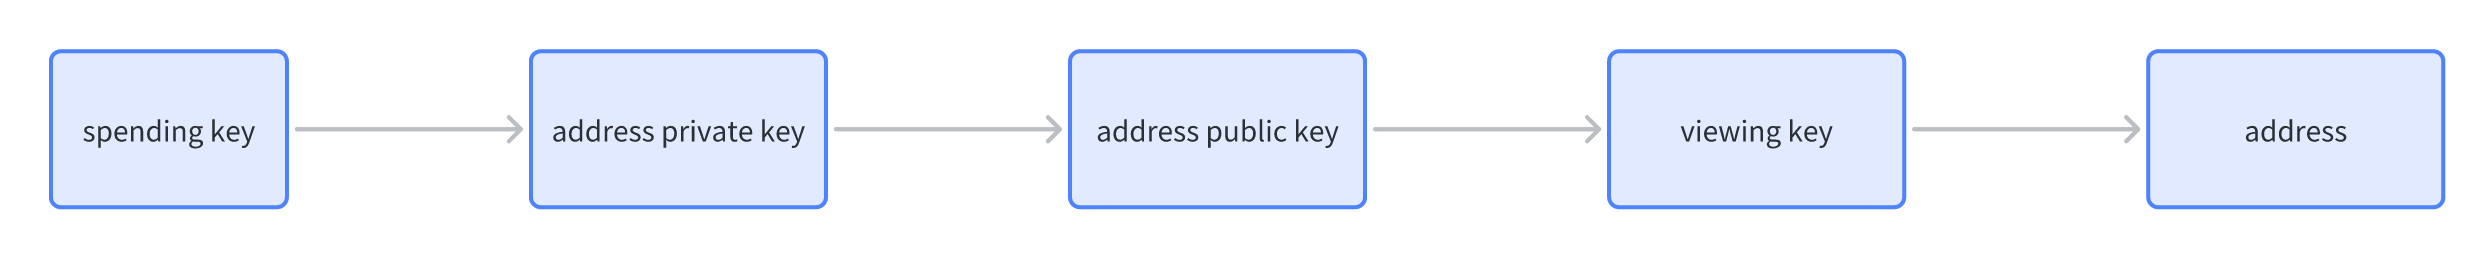
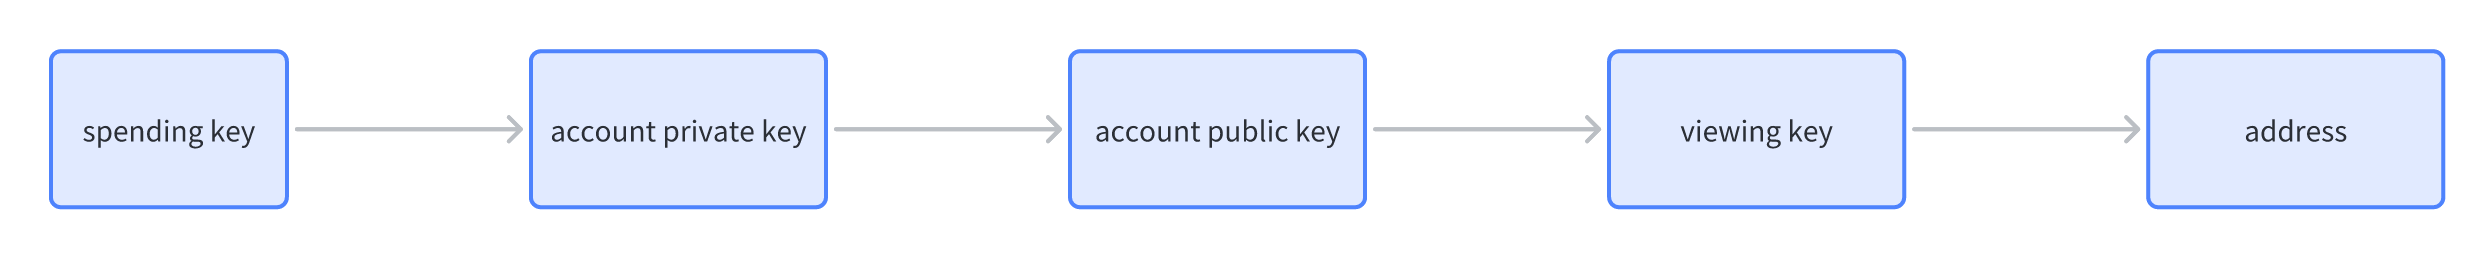
fix review pbs

Changed region(s): [[0.4326, 0.4688, 0.5562, 0.5625], [0.2163, 0.4688, 0.3399, 0.5625]]

diff --git a/zk-zkvm/keys-and-address/account-private-key.tex b/zk-zkvm/keys-and-address/account-private-key.tex
@@ -1,21 +1,21 @@
-\subsubsection{Account Private Keys}\label{section: account-private-keys}
+\subsubsection{Account Private Key}\label{section: account-private-key}
 
-Account private keys are derived from the associated spending keys. Account private keys are private keys just like the spending keys and can not be leaked to others. A Account private key can be used to sign transactions and generate note commitments. It mainly consists of three parts:
+The account private key is derived from the associated spending key, and is also a private key like the spending key and can not be leaked to others. A account private key can be used to sign transactions and generate note commitments. It mainly consists of three parts:
 
 \begin{itemize}
     \item Random commitment key
         \begin{itemize}
-            \item a random number used in commitment scheme
+            \item A random number used in commitment scheme.
         \end{itemize}
     \item Signature secret key
         \begin{itemize}
-            \item A key used in signature scheme
+            \item A key used in signature scheme.
         \end{itemize}
     \item Random seed
         \begin{itemize}
             \item A random number seed
-            \item Signature secret key and rcm are all derived from a rseed
+            \item The signature secret key and the random commitment key are all derived from the random seed.
         \end{itemize}
 \end{itemize}
 
-The random commitment key is a scalar used in commitment schemes. The signature secret key is also a scalar used for private keys in signature schemes. The random seed is a random number generated by a random number generator, which is an element in a finite field and is 32 bytes in size.
+The random commitment key is a scalar used in commitment schemes. The signature secret key is also a scalar used for the private key in signature schemes. The random seed is a random number generated by a random number generator, which is an element in a finite field and is 32 bytes in size.

diff --git a/zk-zkvm/keys-and-address/account-public-key.tex b/zk-zkvm/keys-and-address/account-public-key.tex
@@ -1,6 +1,6 @@
-\subsubsection{Account Public Keys}\label{section: account-public-keys}
+\subsubsection{Account Public Key}\label{section: account-public-key}
 
-Account public keys are derived from the associated account private keys, which mainly includes:
+The account public key is derived from the associated account private key, which mainly consists of:
 
 \begin{itemize}
     \item Signature public key
@@ -8,11 +8,11 @@ Account public keys are derived from the associated account private keys, which 
     \item PRF secret key
 \end{itemize}
 
-The signature public key is a public key derived from the generator G of the group on an elliptic curve and a signature secret key, which is essentially a group element on the elliptic curve, and is used to verify the signature in a signature scheme
+The signature public key is a public key derived from a signature secret key and a group generator on an elliptic curve. It is essentially also a group element on the elliptic curve, and is used to verify the signature in a signature scheme.
 \[ \mathrm{Sig\_Pub\_Key} = G^{\mathrm{Sig\_Pri\_Key}} \]
 
-The signature public random key is a random number derived from random commitment key for a signature scheme, and is essentially an element of the group defined on the elliptic curve
+The signature public random key is a random number derived from random commitment key for a signature scheme, and is essentially an element of the group defined on the elliptic curve.
 \[ \mathrm{Sig\_Pub\_Rand} = G^{\mathrm{rcm}} \]
 
-The PRF secret key is a key used in the Pseudo Random Function to generate pseudo-random numbers
+The PRF secret key is a key used in the Pseudo Random Function to generate pseudo-random numbers.
 \[ \mathrm{PRF}_{sk}(x) = \mathrm{Hash}(sk \mathbin{||} x) \]

diff --git a/zk-zkvm/keys-and-address/address.tex b/zk-zkvm/keys-and-address/address.tex
@@ -1,8 +1,8 @@
-\subsubsection{Addresses}\label{section: addresses}
+\subsubsection{Address}\label{section: address}
 
-Addresses are generated by associated account public keys or viewing keys to receive transfers. Addresses in Ola are either transparent or shielded (private). Transparent addresses are publicly visible on the blockchain, in the same way that Bitcoin addresses are viewable. Shielded addresses are invisible and transactions between shielded addresses do not reveal either address, the transaction value or the content of the encrypted field.
+An address is generated by the associated account public key or viewing key to receive transfers. Addresses in Ola are either transparent or shielded (private). Transparent addresses are publicly visible on the blockchain, in the same way that Bitcoin addresses are viewable. Shielded addresses are invisible and transactions between shielded addresses do not reveal either address, the transaction value or the content of the encrypted field.
 
-Zcash has defined a mechanism for generating hierarchical deterministic wallets in \href{https://zips.z.cash/zip-0032}{ZIP 32}, just like \href{https://github.com/bitcoin/bips/blob/master/bip-0032.mediawiki}{BIP 32}. It can help users who want to generate multiple addresses per account. All derivations produce an opaque binary spending key, from which the keys and addresses are then derived.
+Zcash has defined a mechanism for generating hierarchical deterministic wallets in ZIP 32 \cite{website:ZIP-32}, just like BIP 32 \cite{website:BIP-32}. It can help users who want to generate multiple addresses per account. All derivations produce an opaque binary spending key, from which the keys and addresses are then derived.
 
 \begin{itemize}
     \item ZIP 32

diff --git a/zk-zkvm/keys-and-address/viewing-key.tex b/zk-zkvm/keys-and-address/viewing-key.tex
@@ -1,6 +1,6 @@
-\subsubsection{Viewing Keys}\label{section: viewing-keys}
+\subsubsection{Viewing Key}\label{section: viewing-key}
 
-Viewing keys are derived from associated account private keys, and each viewing key can generate one or more addresses. A viewing key can decrypt all transaction records associated with its address, that is, arbitrarily read transaction data under the address, so they can be used by regulatory departments to audit the historical transactions of an account. It can also be handed over to an delegate to generate zero-knowledge proofs. After the viewing key is leaked, all transaction data will be traced, but no assets will be lost (only the account private key can spend the user's assets). Viewing keys can only be issued to trusted institutions.
+The viewing key is derived from the associated account private key, and each viewing key can generate one or more addresses. A viewing key can decrypt all transaction records associated with its address, that is, arbitrarily read transaction data under the address, so they can be used by regulatory departments to audit the historical transactions of an account. It can also be handed over to an delegate to generate zero-knowledge proofs. After the viewing key is leaked, all transaction data will be traced, but no assets will be lost (only the account private key can spend the user's assets). Viewing keys can only be issued to trusted institutions.
 
 The viewing key is derived directly from the user's account private key
 \[ \mathrm{viewing\_key} = \mathrm{private\_key.sk} + \mathrm{private\_key.rcm} + \mathrm{public\_key.sk\_prf} \]

diff --git a/zk-zkvm/notes/introduction.tex b/zk-zkvm/notes/introduction.tex
@@ -5,15 +5,14 @@ There are mainly two storage models in blockchain:  the UTXO model used by Bitco
 The main reasons why the private account system is implemented using the UTXO model rather than directly based on the account model are:
 
 \begin{enumerate}
-    \item Account model updates directly update the state in the location of the account, which makes it easy to leak user identity information.
+    \item The account model updates directly update the state in the location of the account, which makes it easy to leak user identity information.
     \item The account model supports privacy requires updating states of all users and contracts at the same time, which is less efficient.
-    \item UTXO model can address the above two problems and enables efficient implementation of privacy features.
 \end{enumerate}
 
-In the private account system, a user's balance information and state data are stored in a data structure called Note (refer to Zcash). A note mainly contains:
+The UTXO model can address the above two problems and enables efficient implementation of privacy features. In the private account system, a user's balance information and state data are stored in a data structure called Note (refer to Zcash). A note mainly contains:
 
 \begin{itemize}
-    \item Spend public key
+    \item Account public key
         \begin{itemize}
             \item The public key of the owner of the note, that is, the holder of the private key corresponding to this public key can consume this note.
         \end{itemize}

diff --git a/zk-zkvm/notes/send-notes.tex b/zk-zkvm/notes/send-notes.tex
@@ -5,9 +5,6 @@ After the user selects old notes and produces new notes, they need to encapsulat
 
 \begin{enumerate}
     \item Select the notes to be spent and the recipient's shielded address.
-    \begin{enumerate}
-        \item A shielded address contains a public key called spending public key.
-    \end{enumerate}
     \item Decrypt the note ciphertexts to get note plaintexts of the selected old notes.
     \item Get the random commitment keys and the nullifier keys of old notes from their plaintexts.
     \item Generate note commitments of old notes using the random commitment keys.
@@ -18,7 +15,7 @@ After the user selects old notes and produces new notes, they need to encapsulat
     \item Derive a symmetric key sym\_key from the shared secret.
     \item Construct new note plaintexts $$np = (spending\_public\_key, value, payload, random\_commitment\_key, nullifier\_key)$$
     \item Encrypt note plaintexts using sym\_key to get note ciphertexts.
-    \item Compose the above parameters into a statement.
+    \item Generate a statement depending on primary and auxiliary inputs.
     \item Generate a zero-knowledge proof of the statement.
     \item Assemble all old notes, new notes, the ephemeral public key and the proof into a transaction.
     \item Encode the transaction and send it to the network.

diff --git a/zk-zkvm/keys-and-address/spending-key.tex b/zk-zkvm/keys-and-address/spending-key.tex
@@ -1,3 +1,3 @@
-\subsubsection{Spending Keys}\label{section: spending-keys}
+\subsubsection{Spending Key}\label{section: spending-key}
 
-Spending keys are the most important keys in the key system. Similar to the private keys in Bitcoin, whoever owns the spending key can spend and view the balance and transaction history in the address associated with this key. The Spending key is used to generate other keys, which is essentially a 256-bit random number, which makes it as secure as Bitcoin in some respects.
+The spending key is the most important key in the key system. Similar to the private key in Bitcoin, whoever owns the spending key can spend and view the balance and transaction history in the address associated with this key. The spending key is essentially a 256-bit random number, which makes it as secure as Bitcoin in some respects, and is used to derive other keys.
